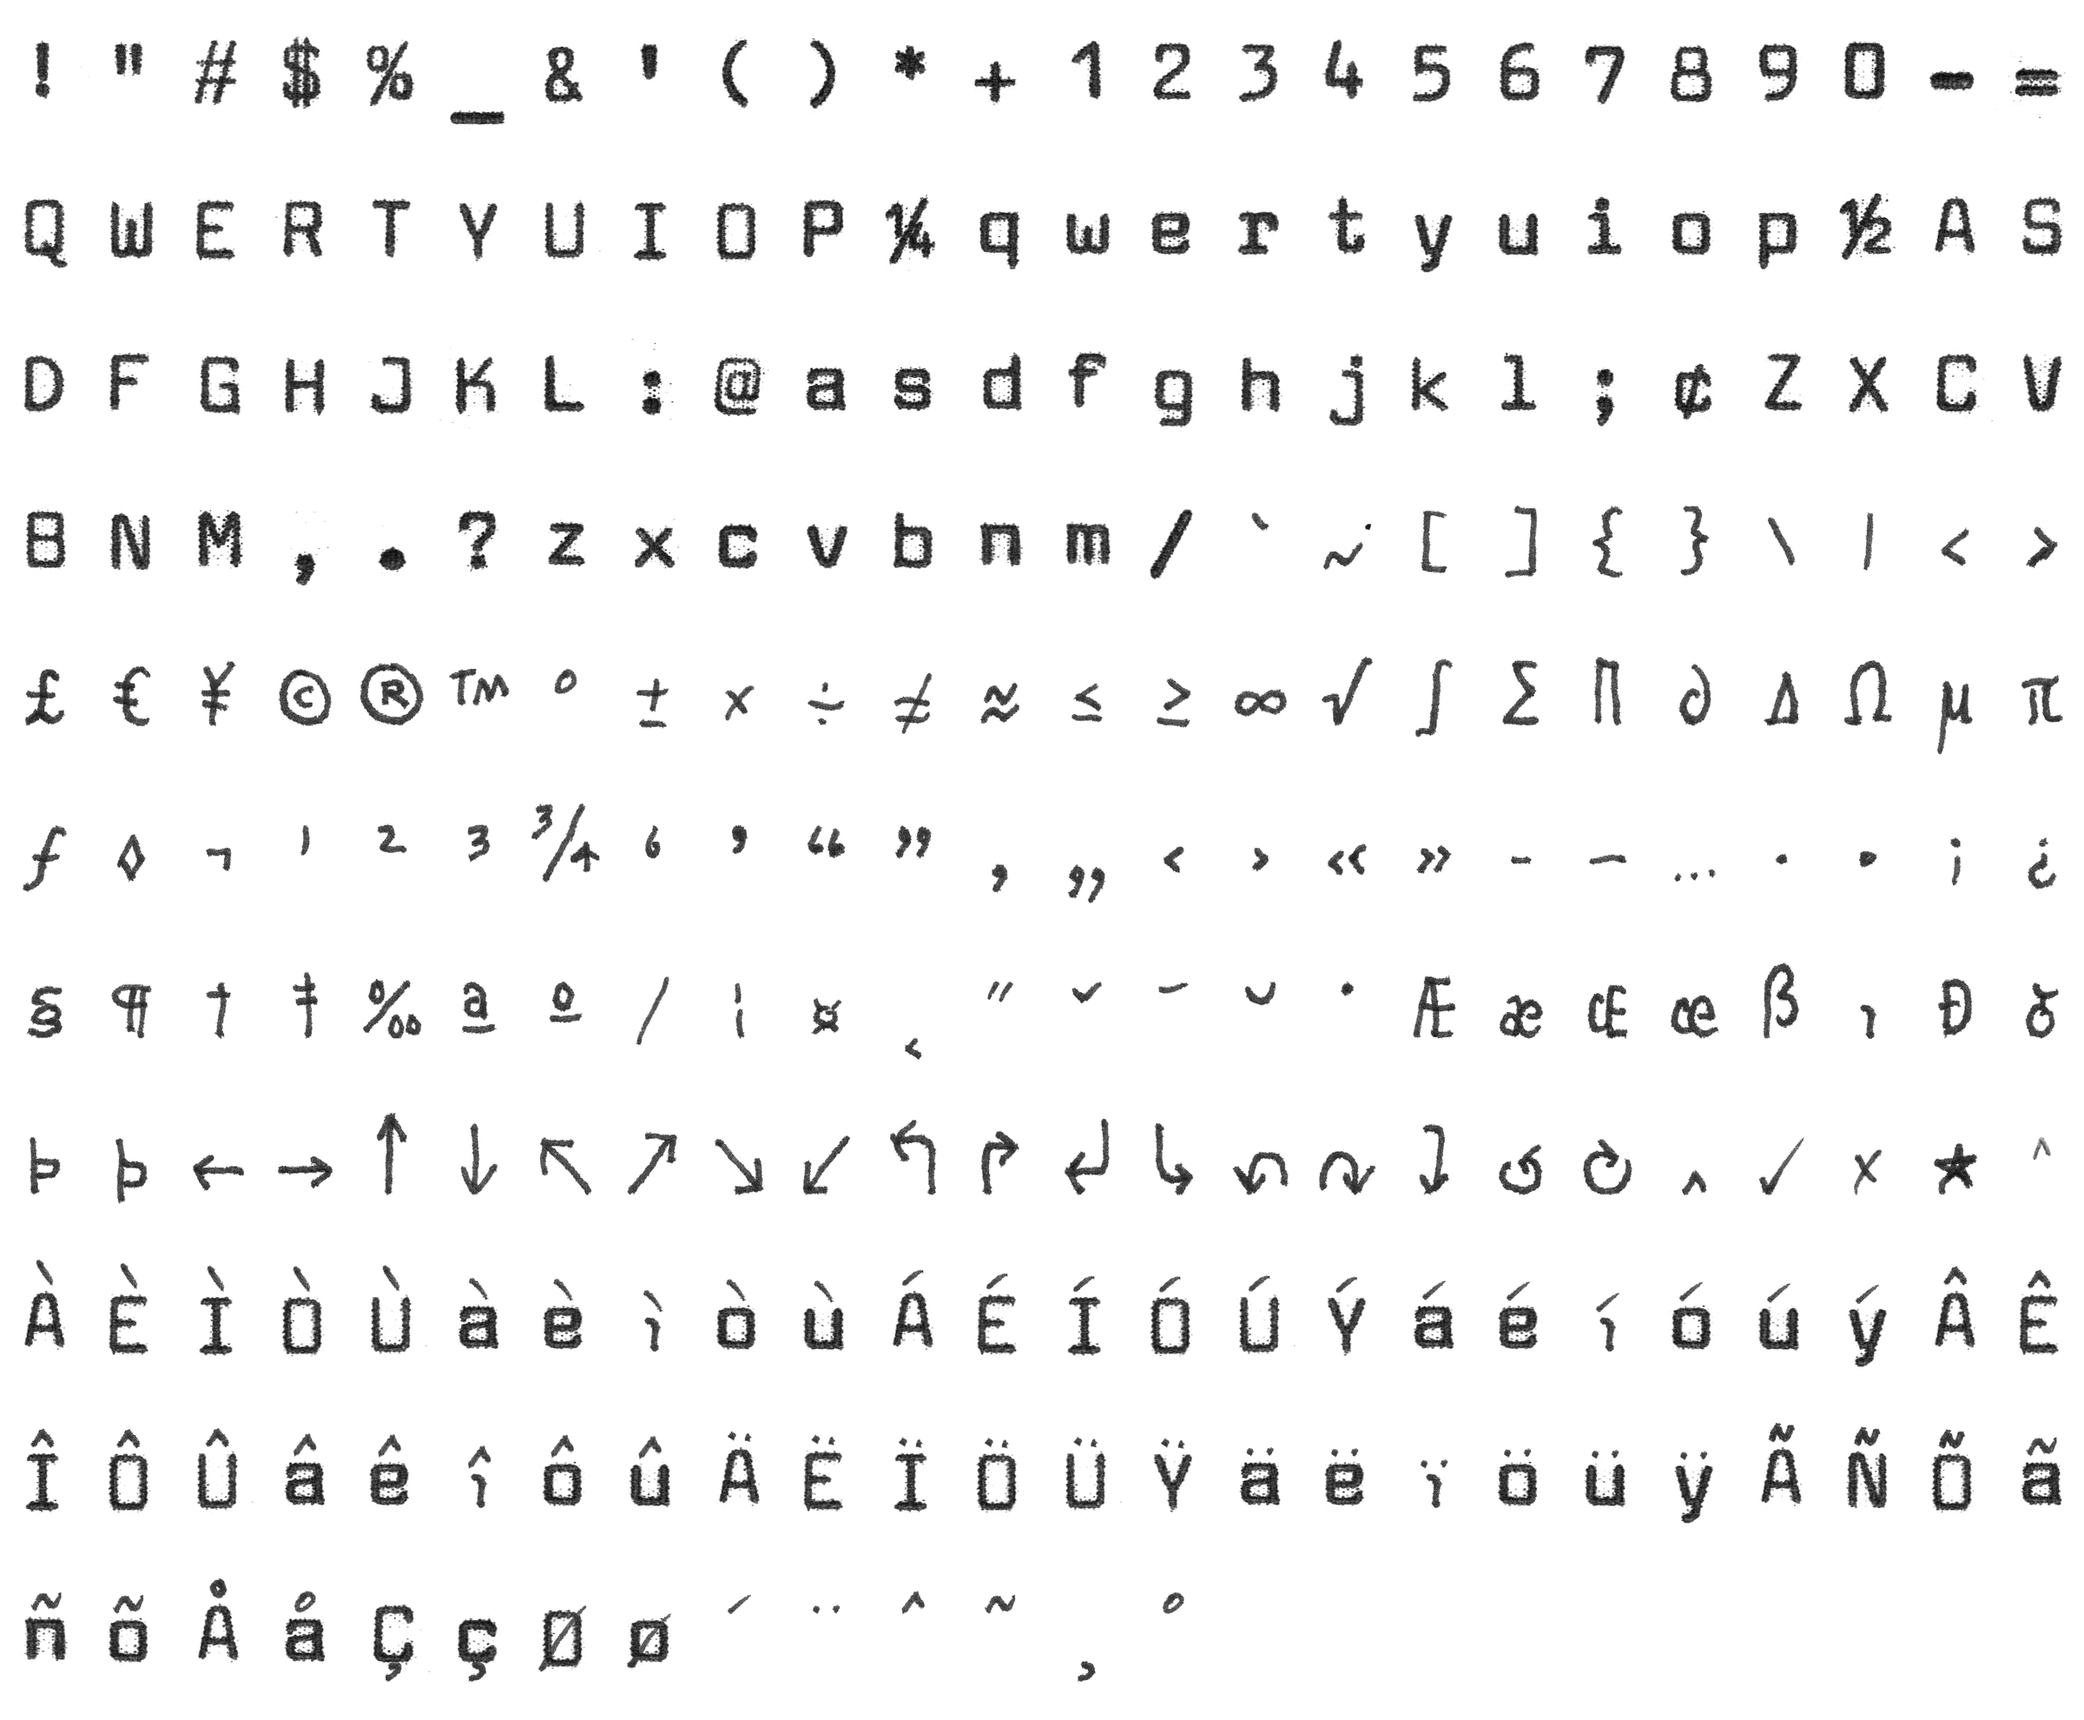
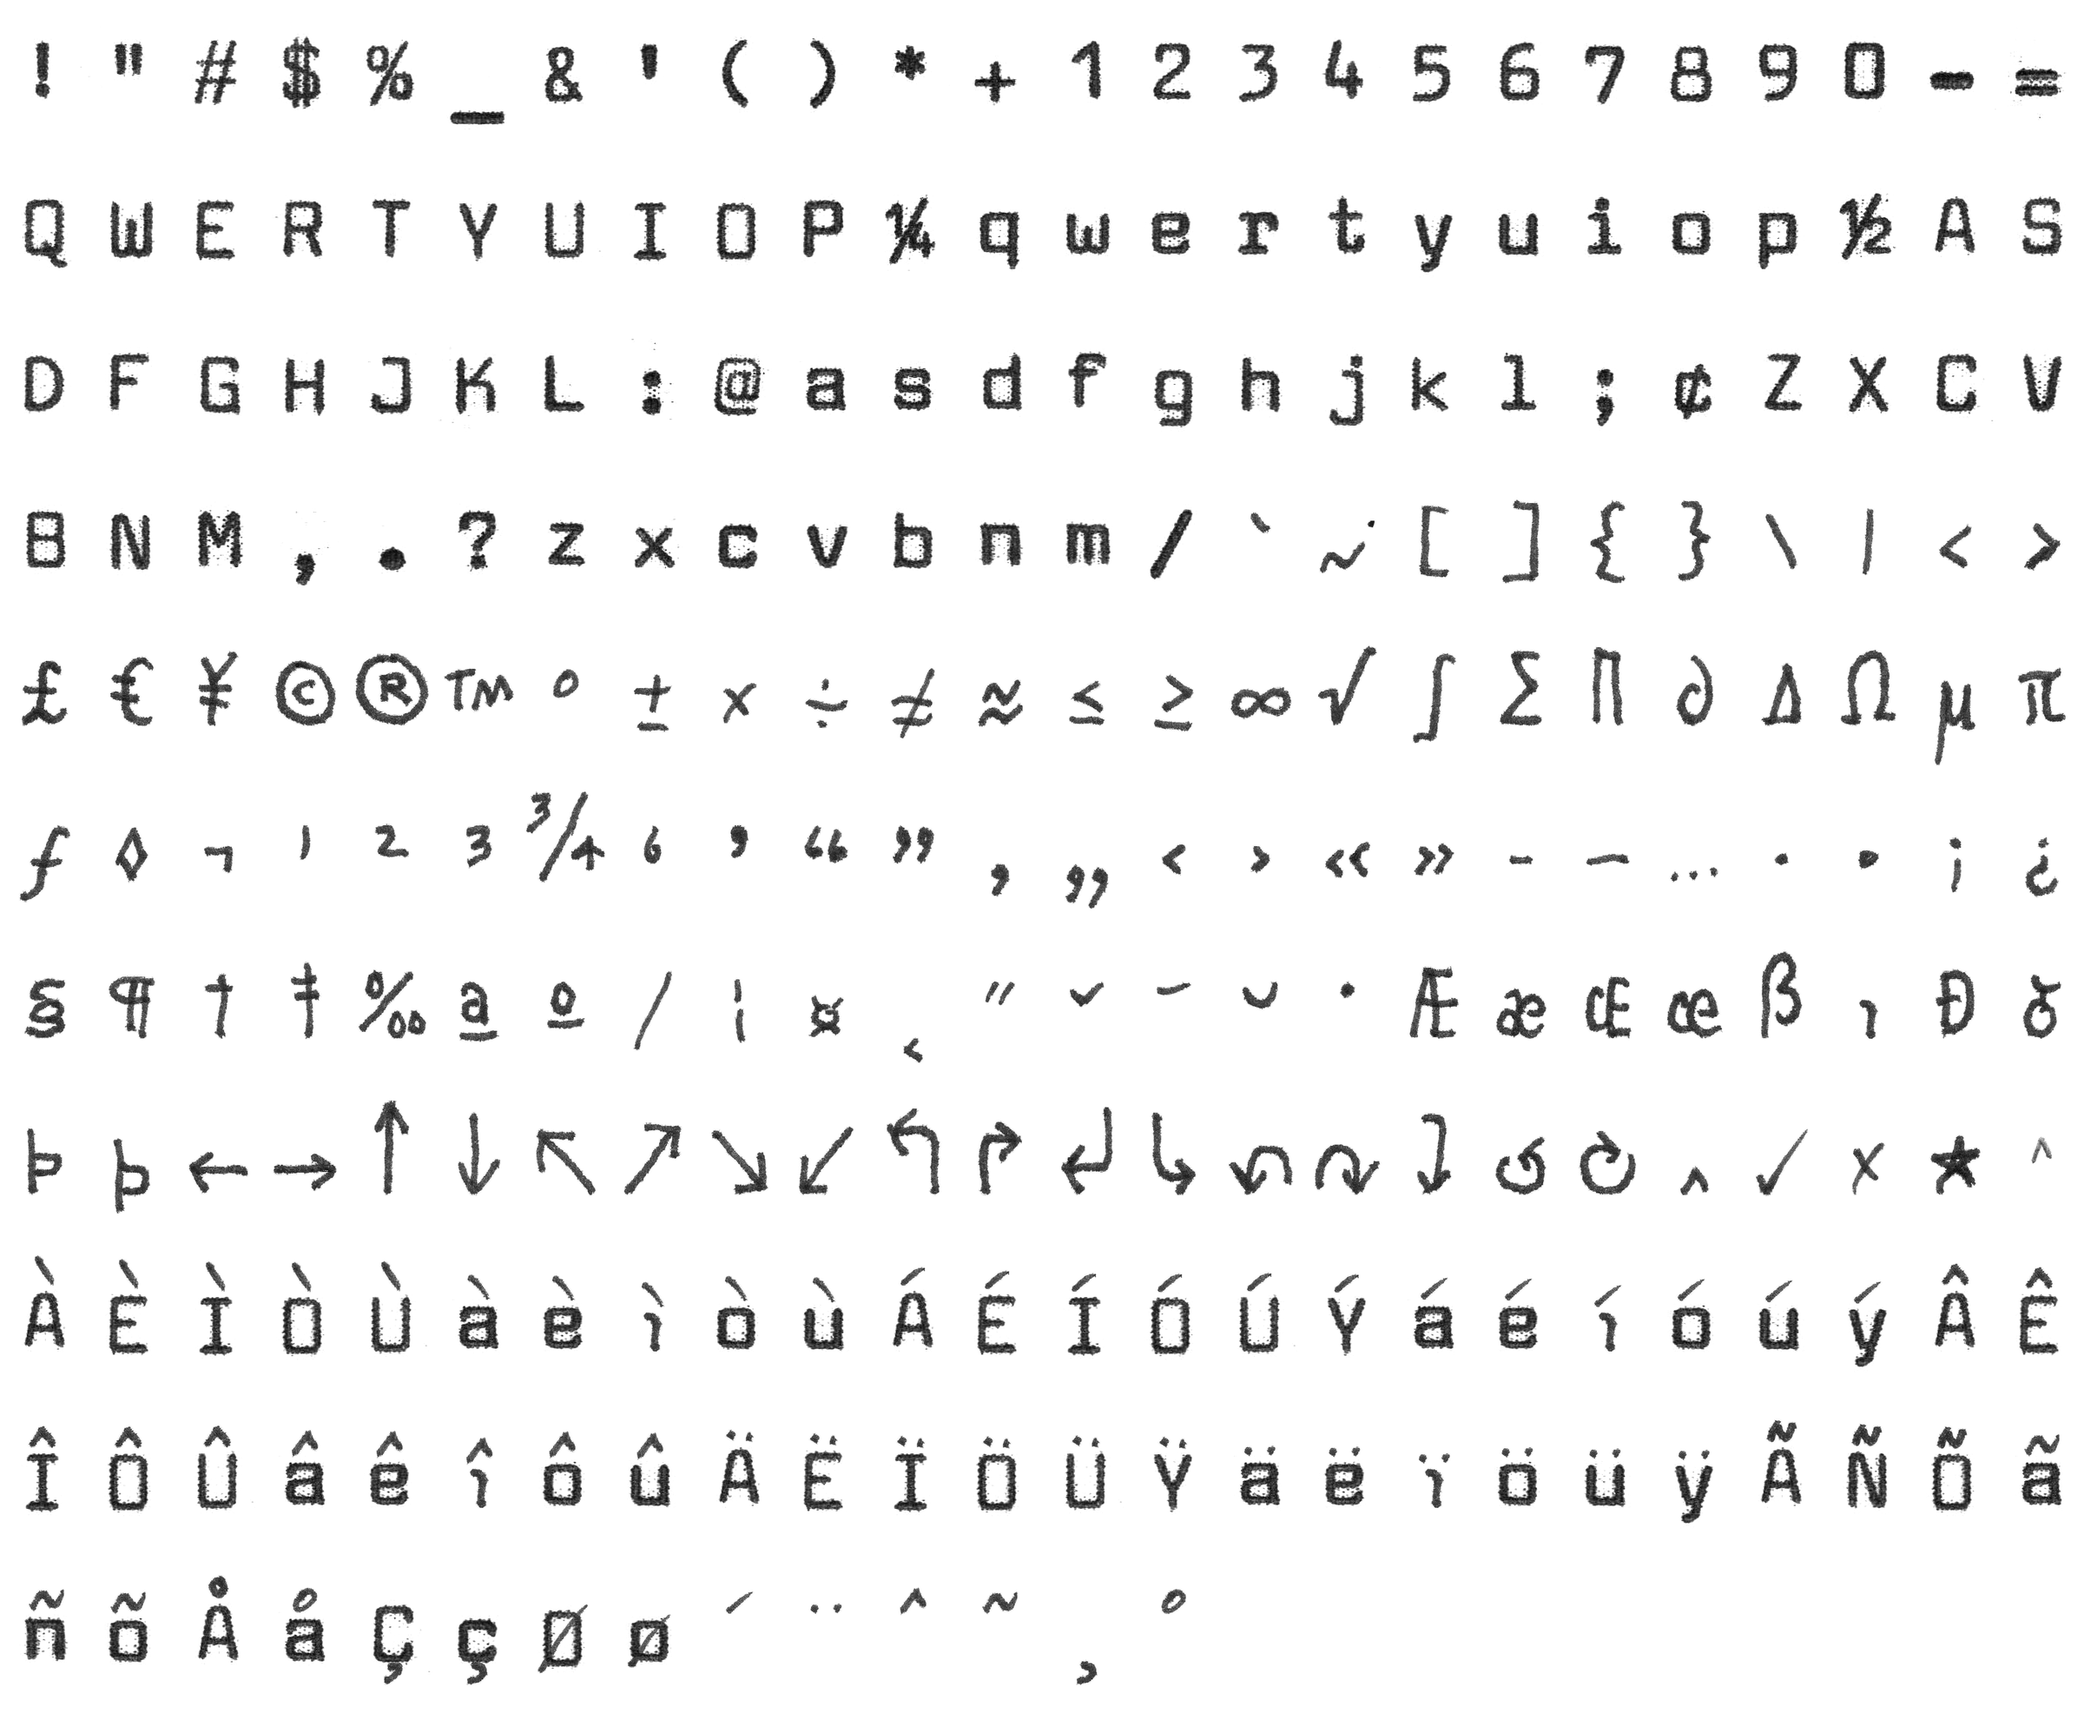
Set the drawn glyphs a little larger, double struck most
Each weight's drawings are now scaled 15% past the size of the typed
glyphs (30% for double struck), so the pen's strokes come nearer the
weight of the type. The few widest overlap their neighbours a little;
none grows past the room the app strikes around a character. The slash
in Ø and ø is fitted to the letter it crosses, and a stroke running off
the top of a blank (from the row above) is left out.

Claude-Session: https://claude.ai/code/session_01UAck9h7yeA6utHax9aEA1s

diff --git a/docs/build-glyphs.py b/docs/build-glyphs.py
@@ -150,9 +150,9 @@ def drawn(img, red=False, threshold=70, smallest=40):
     H, W = mask.shape
     keep = np.zeros_like(mask)
     for ys, xs in components(mask):
-        # Drop specks of dust, pencil, and strokes that wandered in from a neighbouring cell. Pen is darker than
-        # pencil or dust, and on the red sheet it's red.
-        if len(ys) < smallest or abs(xs.mean() - W / 2) > W * 0.42: continue
+        # Drop specks of dust, pencil, and strokes that wandered in from a neighbouring cell or ran down off the row
+        # above. Pen is darker than pencil or dust, and on the red sheet it's red.
+        if len(ys) < smallest or abs(xs.mean() - W / 2) > W * 0.42 or ys.min() == 0: continue
         dark = amount[ys, xs].mean()
         if (redness[ys, xs].mean() < 50) if red else (dark < 120): continue
         if len(ys) < 60 and dark < 140: continue
@@ -262,12 +262,17 @@ def stamp(canvas, rgb, x, y):
     region = canvas[y:y + h, x:x + w]
     region[...] = np.minimum(region, rgb[:region.shape[0], :region.shape[1]])
 
-# Each weight's drawings are scaled by the one factor that brings its drawn capitals to the height of the typed ones,
-# and its drawn x-height letters to theirs, so every glyph keeps the weight of the pen it was drawn with
-def drawnScale(got):
+# Each weight's drawings are scaled together, by one factor, so every glyph keeps the weight of the pen it was drawn
+# with. It's the factor that brings the drawn capitals to the height of the typed ones, and the drawn x-height letters
+# to theirs, then a little more, so the pen's strokes come nearer the weight of the type (any smaller, and they read
+# lighter than the letters around them), double struck most of all. A few of the widest overlap their neighbours.
+enlarge = {"Light": 1.15, "Regular": 1.15, "Double struck": 1.3}
+room = (186, 220) # the most a drawing may take at 1200 dpi before the app would cut it off at the edges of its cell
+
+def drawnScale(got, title):
     heights = [(line["base"] - line["cap"], "ÆŒÐÞ"), (line["base"] - line["x"], "æœ")]
     ratios = [h / (got[c][1][3] - got[c][1][1]) for h, chars in heights for c in chars if c in got]
-    return float(np.median(ratios)) if ratios else 1
+    return (float(np.median(ratios)) if ratios else 1) * enlarge[title]
 
 def scaled(d, s):
     """A drawing d = (clean, box) at s times its size."""
@@ -305,8 +310,9 @@ def build():
                 if c["typed"]: continue
                 d = drawn(cutOut(scan, M, c), red=sheet == "red")
                 if d is not None: got[c["char"]] = (d[0], (d[1][0], d[1][1], d[1][2], d[1][3]))
-            s = drawnScale(got)
-            for c in got: got[c] = scaled(got[c], s)
+            s = drawnScale(got, sec["title"])
+            for c, (_, (x0, y0, x1, y1)) in got.items():
+                got[c] = scaled(got[c], min(s, room[0] / (x1 - x0), room[1] / (y1 - y0)))
             print(f"  {sec['title'].lower()} drawings set at {s:.2f} of the size they were drawn")
     # A character left blank in one section borrows its drawing from another of the same colour
     for (sheet, i), got in drawings.items():
@@ -349,10 +355,15 @@ def build():
                 if (kind, case) not in accents: continue
                 x0, y0, x1, y1 = inkBox(canvas[oy - originY:oy - originY + cellH, ox - originX:ox - originX + cellW])
                 bx, by0, by1 = (x0 + x1) / 2 - originX, y0 - originY, y1 - originY
-                if kind == "slash": at = (bx, "middle", (by0 + by1) / 2)
+                accent = accents[kind, case]
+                if kind == "slash":
+                    # struck through the letter, so reaching only a little past it
+                    h = accent[1][3] - accent[1][1]
+                    if h > 1.2 * (by1 - by0): accent = scaled(accent, 1.2 * (by1 - by0) / h)
+                    at = (bx, "middle", (by0 + by1) / 2)
                 elif kind == "cedilla": at = (bx, "top", line["base"] - 6)
                 else: at = (bx, "bottom", by0 - gap)
-                setDrawn(canvas, ox, oy, accents[kind, case], at=at)
+                setDrawn(canvas, ox, oy, accent, at=at)
         for c, kind in spacingAccents.items():
             if (kind, "low") not in accents: continue
             ox, oy = origin(c)

diff --git a/README.md b/README.md
@@ -94,8 +94,9 @@ rebuilds them). They lay out every character at true size in each strike: the ty
 draw. Accents are drawn once each, over a capital and over a lowercase letter, after a typed letter to line them up
 against. To add or redraw glyphs, print a sheet at actual size, draw in the blanks, scan it at 1200 dpi into `scans/`,
 and run the build. It lines the scan up against the typed glyphs and cuts out each drawing. Every drawing in a weight is
-scaled by the same amount, the one that brings its drawn capitals and x-height letters to the typed ones' size, so all
-of them keep the weight of the pen they were drawn with. Each is set at the height its kind of character sits at (on
+scaled by the same amount, so all of them keep the weight of the pen they were drawn with: a little more than it takes
+to bring the drawn capitals and x-height letters to the typed ones' size, so the strokes come nearer the type's weight
+(`enlarge` in the build sets how much, for each weight). Each is set at the height its kind of character sits at (on
 the baseline, raised, centred, or hanging below), centred across its cell. Then it lays each accent over every letter
 that takes it.
 
